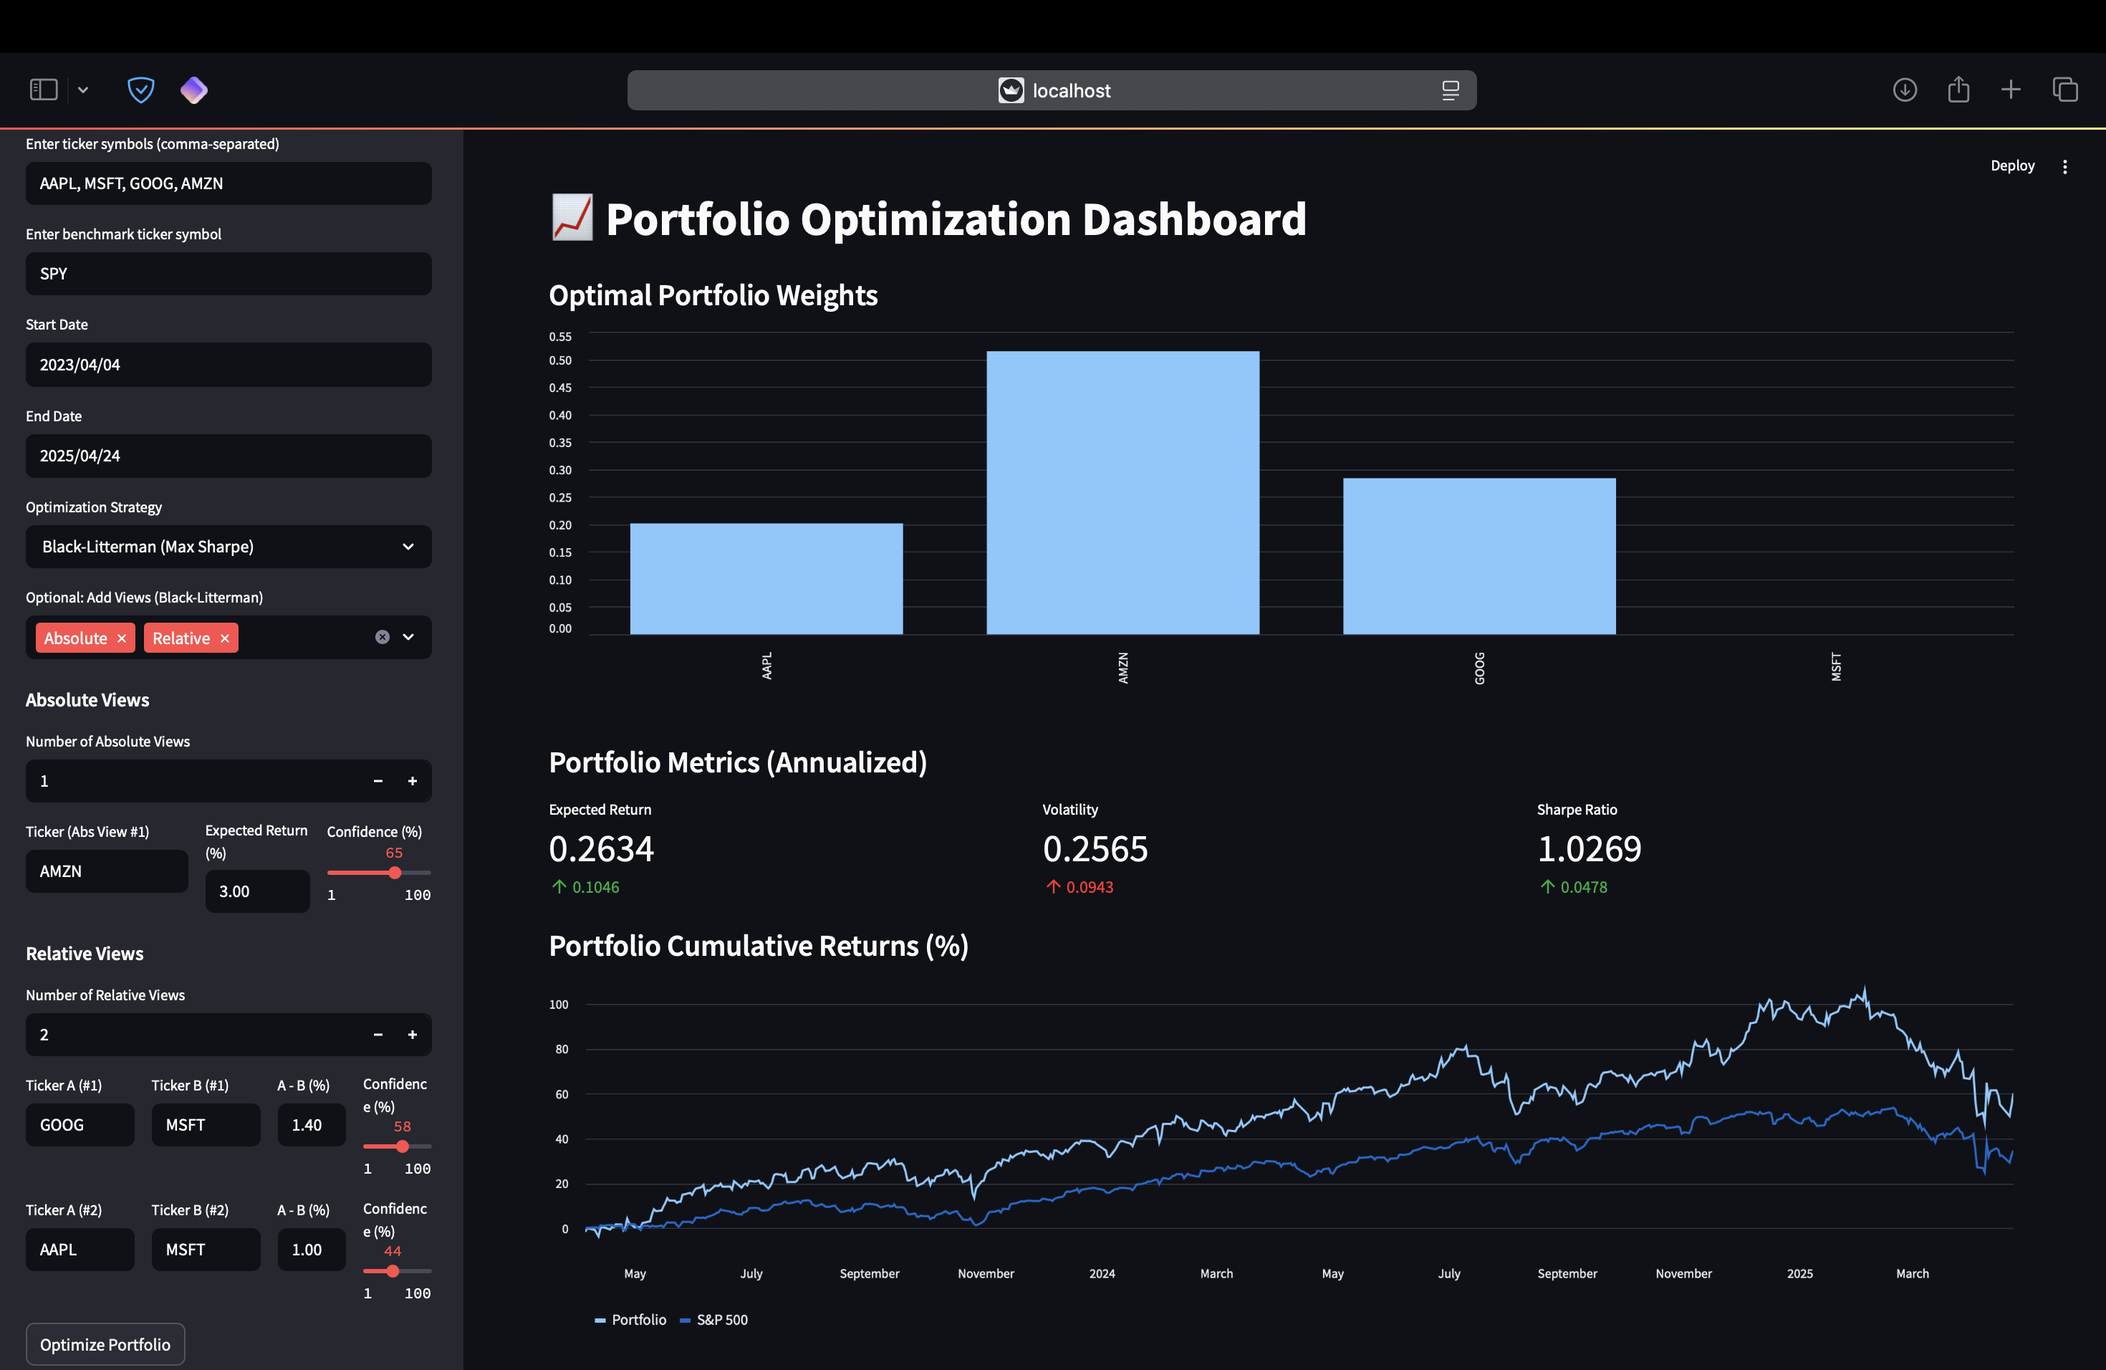
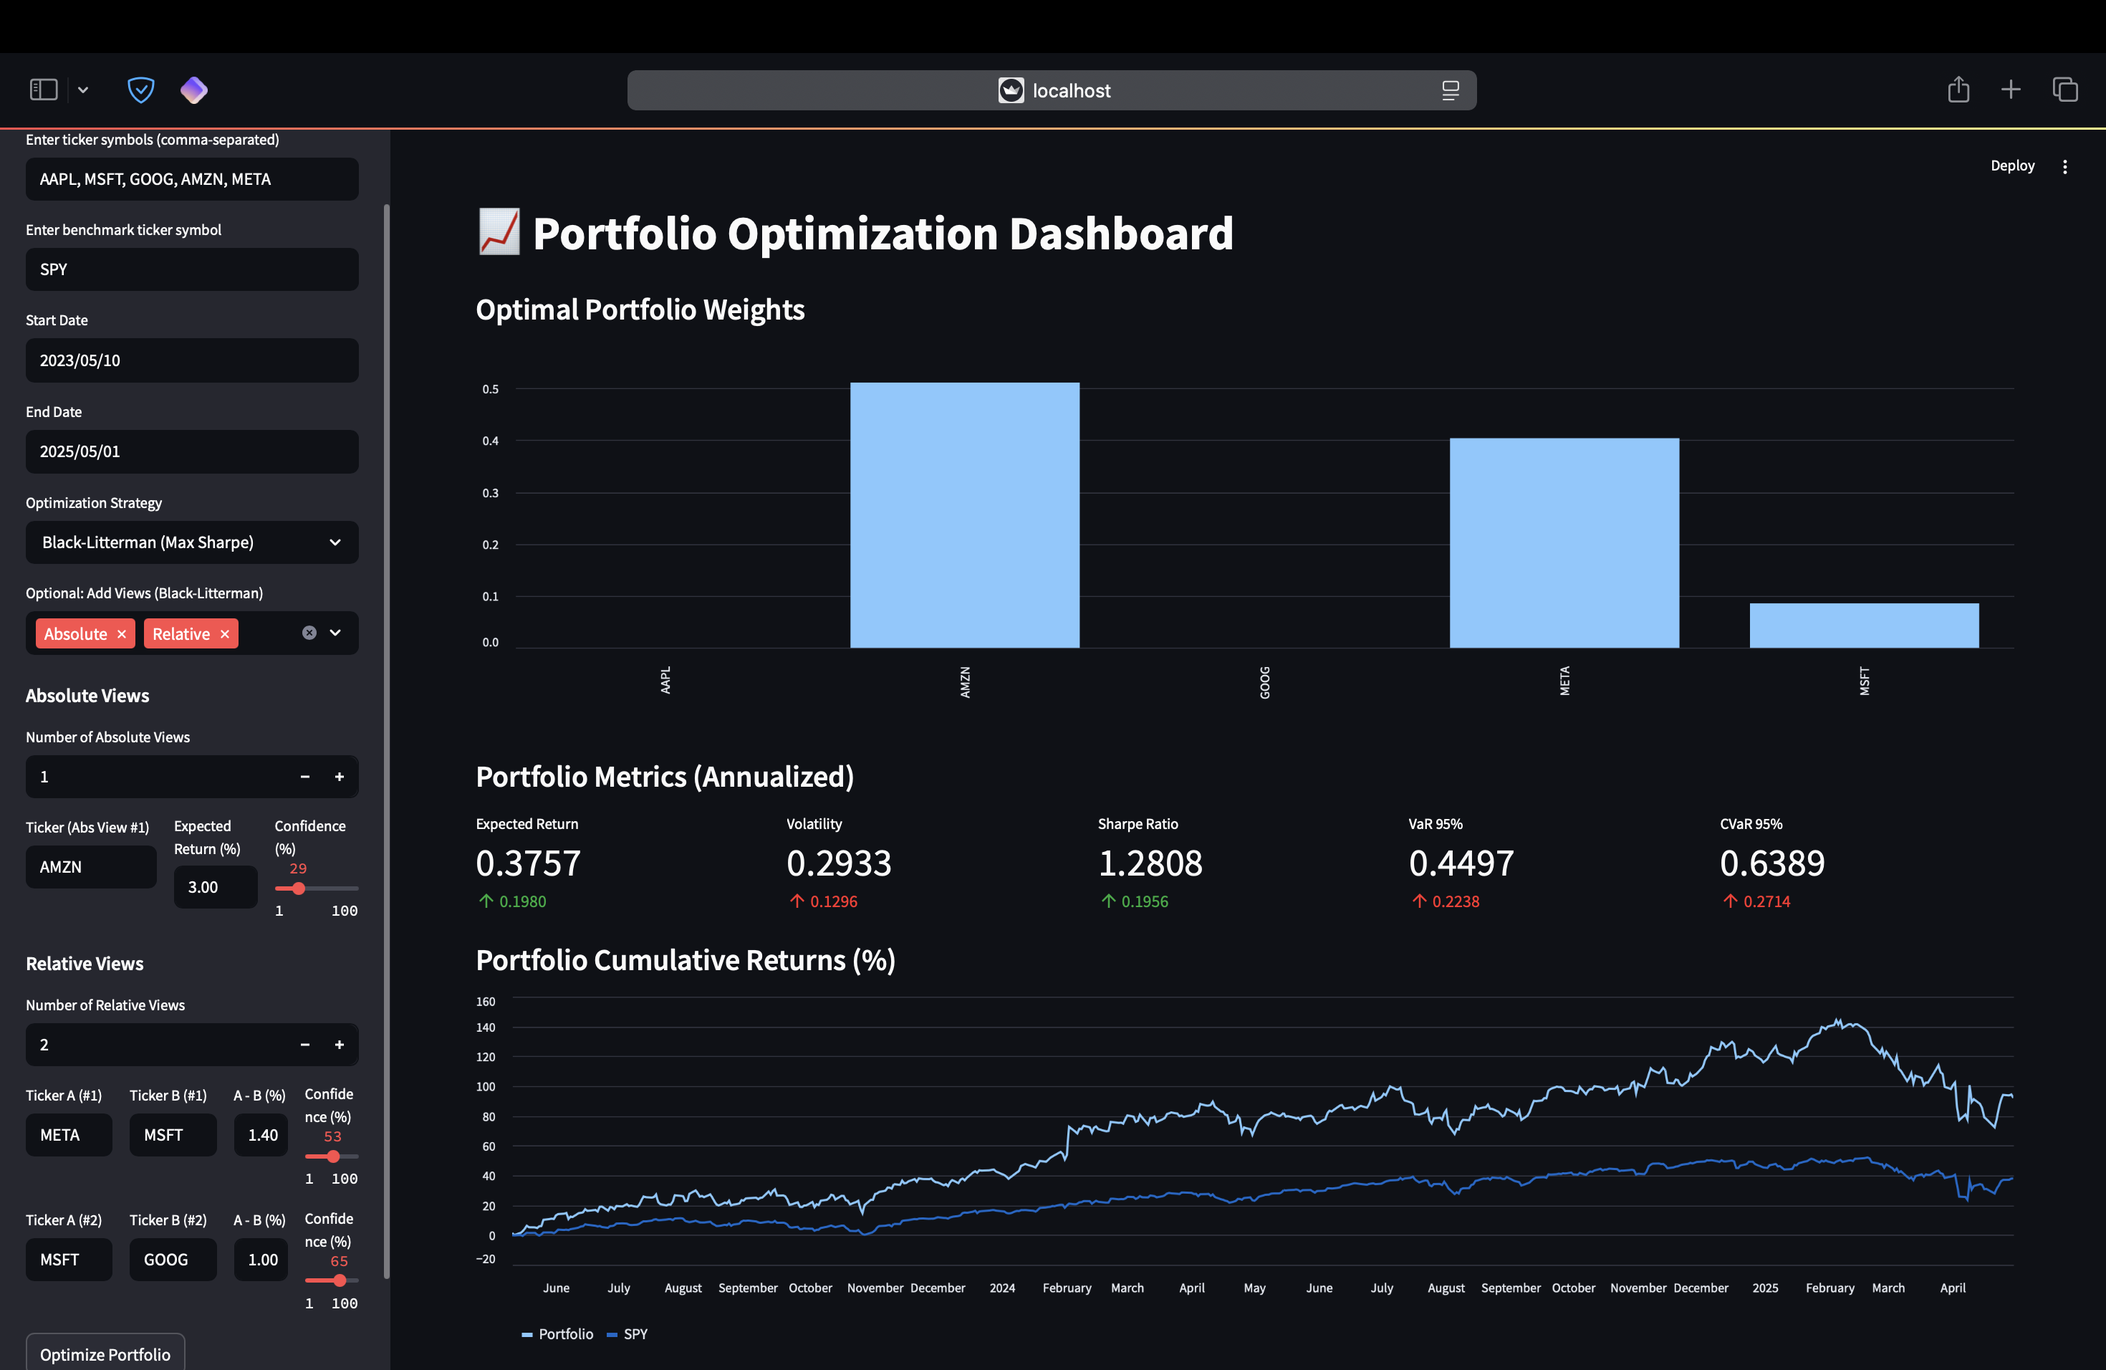
Add the updated version of all files
Mainly added the option of CVaR optimization strategy and two portfolio metrics: VaR and CVaR. Moreover, added a drawdown analysis (with line plot) and a correlation matrix heatmap.

diff --git a/strategy.py b/strategy.py
@@ -1,7 +1,8 @@
 import numpy as np
 import pandas as pd
 import yfinance as yf
-from scipy.optimize import minimize
+from scipy.optimize import minimize, linprog
+import seaborn as sns
 
 def load_data(tickers, start, end):
     try:
@@ -12,25 +13,25 @@ def load_data(tickers, start, end):
         print(f"Error loading data: {e}")
         return None
 
-def optimize_portfolio(data, strategy, benchmark, views=None):
+def optimize_portfolio(data, strategy, benchmark, views=None, alpha=0.95):
     returns = data.pct_change().dropna()
     mean_returns = returns.mean()
     cov_matrix = returns.cov()
-    num_assets = len(mean_returns)
+    T, N = returns.shape
 
     benchmark_returns = benchmark.pct_change().dropna()
     benchmark_mean = benchmark_returns.mean()
     benchmark_var = benchmark_returns.var()
 
     if strategy == "Equal Weight":
-        weights = np.array(num_assets * [1/num_assets])
+        weights = np.array(N * [1/N])
     elif strategy == "Minimum Variance":
         def portfolio_std(weights):
             return np.sqrt(np.dot(weights.T, np.dot(cov_matrix, weights)))
 
         constraints = ({'type': 'eq', 'fun': lambda x: np.sum(x) - 1})
-        bounds = tuple((0, 1) for _ in range(num_assets))
-        initial_guess = num_assets * [1/num_assets]
+        bounds = tuple((0, 1) for _ in range(N))
+        initial_guess = N * [1/N]
 
         result = minimize(portfolio_std, initial_guess, method='SLSQP', bounds=bounds, constraints=constraints)
         weights = result.x
@@ -42,13 +43,13 @@ def optimize_portfolio(data, strategy, benchmark, views=None):
             return -1 * (port_return - daily_rf)/port_std
 
         constraints = ({'type': 'eq', 'fun': lambda x: np.sum(x) - 1})
-        bounds = tuple((0, 1) for _ in range(num_assets))
-        initial_guess = num_assets * [1/num_assets]
+        bounds = tuple((0, 1) for _ in range(N))
+        initial_guess = N * [1/N]
 
         result = minimize(neg_sharpe_ratio, initial_guess, method='SLSQP', bounds=bounds, constraints=constraints)
         weights = result.x
     elif strategy == "Black-Litterman (Max Sharpe)":
-        def black_litterman_expected_returns(tau, cov_matrix, P, Q, PI):
+        def black_litterman_expected_returns(tau, cov_matrix, confidences, P, Q, PI):
             omega = np.zeros((len(Q), len(Q)))
             for i, conf in enumerate(confidences):
                 epsilon = 1e-8  # Small value to prevent division errors when confidence is 100
@@ -71,7 +72,7 @@ def optimize_portfolio(data, strategy, benchmark, views=None):
                 if view[0] == "absolute":
                     _, ticker, expected_ret, conf = view
                     if ticker in data.columns:
-                        row = [0] * num_assets
+                        row = [0] * N
                         idx = data.columns.get_loc(ticker)
                         row[idx] = 1
                         P.append(row)
@@ -80,7 +81,7 @@ def optimize_portfolio(data, strategy, benchmark, views=None):
                 elif view[0] == "relative":
                     _, ticker_a, ticker_b, expected_diff, conf = view
                     if ticker_a in data.columns and ticker_b in data.columns:
-                        row = [0] * num_assets
+                        row = [0] * N
                         idx_a = data.columns.get_loc(ticker_a)
                         idx_b = data.columns.get_loc(ticker_b)
                         row[idx_a] = 1
@@ -90,7 +91,7 @@ def optimize_portfolio(data, strategy, benchmark, views=None):
                         confidences.append(conf)
             P = np.array(P)
             Q = np.array(Q)
-            bl_returns = black_litterman_expected_returns(tau, cov_matrix, P, Q, PI)
+            bl_returns = black_litterman_expected_returns(tau, cov_matrix, confidences, P, Q, PI)
         else:
             bl_returns = PI  
 
@@ -102,21 +103,63 @@ def optimize_portfolio(data, strategy, benchmark, views=None):
             return -(np.dot(weights, bl_returns - daily_rf) / portfolio_std(weights))
 
         constraints = ({'type': 'eq', 'fun': lambda x: np.sum(x) - 1})
-        bounds = tuple((0, 1) for _ in range(num_assets))
+        bounds = tuple((0, 1) for _ in range(N))
         initial_guess = market_weights
 
         result = minimize(neg_sharpe, initial_guess, method='SLSQP', bounds=bounds, constraints=constraints)
         weights = result.x
+    elif strategy=="CVaR":
+        losses = -returns.values 
+        
+        # Variables: [weights (N), VaR (1), auxiliary (T)]
+        # Objective: Minimize CVaR = VaR + (1/(1-alpha)) * mean(auxiliary)
+        vars = N + 1 + T
+        c = np.concatenate([np.zeros(N), [1], np.ones(T) / ((1 - alpha) * T)])
+
+        # Equality Constraint: sum(weights) = 1
+        A_eq = np.zeros((1,vars))
+        A_eq[0:, :N] = 1
+        b_eq = np.array([1])
+        
+        # Inequality Constraints:
+        # 1. auxiliary >= 0
+        A_ub1 = np.zeros((T, vars))  
+        A_ub1[:, N+1:] = -np.eye(T)
+        b_ub1 = np.zeros(T)
+        # 2. auxiliary >= losses - VaR        
+        A_ub2 = np.zeros((T, vars))  
+        A_ub2[:, :N] = losses
+        A_ub2[:, N] = -1 
+        A_ub2[:, N+1:] = -np.eye(T)
+        b_ub2 = np.zeros(T)
+        
+        A_ub = np.vstack([A_ub1, A_ub2])
+        b_ub = np.hstack([b_ub1, b_ub2])
+        
+        # Bounds: weights >= 0, VaR unrestricted, auxiliary >= 0
+        bounds = [(0, None)] * N + [(None, None)] + [(0, None)] * T
+        
+        result = linprog(c, A_ub=A_ub, b_ub=b_ub, A_eq=A_eq, b_eq=b_eq, bounds=bounds, method='highs')
+        weights = result.x[:N]        
     else:
         raise ValueError("Invalid strategy")
 
     portfolio = pd.Series(weights, index=data.columns)
+    portfolio_returns = returns.dot(weights)  
+    sorted_returns = np.sort(portfolio_returns)
+    var_hist = -np.percentile(sorted_returns, 100 * (1 - alpha))
+    cvar_hist = -np.mean(sorted_returns[sorted_returns<=-var_hist])
+    sorted_returns_bench = np.sort(benchmark_returns)
+    var_hist_bench = -np.percentile(sorted_returns_bench, 100 * (1 - alpha))
+    cvar_hist_bench = -np.mean(sorted_returns_bench[sorted_returns_bench<=-var_hist_bench])
     stats = {
         "Expected Return": [np.dot(weights, mean_returns) * 252, np.mean(benchmark_returns) * 252],
         "Volatility": [np.sqrt(np.dot(weights.T, np.dot(cov_matrix, weights)) * 252) , 
                        np.std(benchmark_returns.to_numpy())* np.sqrt(252)],
         "Sharpe Ratio": [(np.dot(weights, mean_returns) * 252) / np.sqrt(np.dot(weights.T, np.dot(cov_matrix, weights)) * 252),
-                          np.mean(benchmark_returns) * 252/(np.std(benchmark_returns.to_numpy()) * np.sqrt(252))]
+                          np.mean(benchmark_returns) * 252/(np.std(benchmark_returns.to_numpy()) * np.sqrt(252))],
+        f"VaR {alpha * 100:.0f}%" : [var_hist * np.sqrt(252), var_hist_bench * np.sqrt(252)],
+        f"CVaR {alpha * 100:.0f}%" : [cvar_hist * np.sqrt(252), cvar_hist_bench * np.sqrt(252)]
     }
 
     return portfolio, stats
@@ -124,14 +167,44 @@ def optimize_portfolio(data, strategy, benchmark, views=None):
 
 def plot_historic_perf(data, opt_weights, benchmark):    
     returns = data.pct_change().dropna()
-    portfolio_ret = (returns *  opt_weights).sum(1)
-    portfolio_perf = ((1 + portfolio_ret).cumprod() - 1) * 100
-
+    portfolio_returns = (returns *  opt_weights).sum(1)
+    portfolio_perf = ((1 + portfolio_returns).cumprod() - 1) * 100
     benchmark_returns = benchmark.pct_change().dropna()
     benchmark_perf = ((1 + benchmark_returns).cumprod() - 1) * 100
 
     historic_data = pd.concat([portfolio_perf, benchmark_perf], axis = 1)
-    historic_data.columns = ['Portfolio', 'S&P 500']
+    historic_data.columns = ['Portfolio', list(benchmark.columns)[0]]
+    return historic_data    
+
+
+def plot_drawdowns(data, opt_weights, benchmark):
+    returns = data.pct_change().dropna()
+    portfolio_returns = (returns *  opt_weights).sum(1)
+    benchmark_returns = benchmark.pct_change().dropna()
+
+    def calculate_drawdowns(returns):
+        wealth_index = (1 + returns).cumprod()
+        previous_peaks = wealth_index.cummax()
+        drawdowns = (wealth_index - previous_peaks) / previous_peaks
+        return drawdowns
     
-    return historic_data
+    portfolio_dd = calculate_drawdowns(portfolio_returns)
+    benchmark_dd = calculate_drawdowns(benchmark_returns)
+    drawdown_data = pd.concat([portfolio_dd, benchmark_dd], axis=1)
+    drawdown_data.columns = ['Portfolio', list(benchmark.columns)[0]]
     
+    stats = {
+        'Portfolio Max Drawdown': drawdown_data['Portfolio'].min() * 100,
+        'Benchmark Max Drawdown': drawdown_data[list(benchmark.columns)[0]].min() * 100,
+        'Maximum Drawdown duration (days)': (drawdown_data['Portfolio'] == 0).astype(int).groupby(
+        (drawdown_data['Portfolio'] == 0).astype(int).cumsum()).cumcount().max()
+    }
+    return drawdown_data, stats
+
+def plot_correlation_heatmap(data):
+    returns = data.pct_change().dropna()
+    corr_matrix = returns.corr()
+    cm = sns.dark_palette("blue", as_cmap=True)
+    corr_matrix = corr_matrix.style.format(precision = 3).background_gradient(cmap=cm)
+    return corr_matrix
+

diff --git a/stream.py b/stream.py
@@ -5,47 +5,53 @@ st.set_page_config(layout="wide")
 st.title("📈 Portfolio Optimization Dashboard")
 
 # Sidebar Inputs
-assets = st.sidebar.text_input("Enter ticker symbols (comma-separated)", "AAPL, MSFT, GOOG, AMZN")
+assets = st.sidebar.text_input("Enter ticker symbols (comma-separated)", "AAPL, MSFT, GOOG, AMZN, META")    
 bench = st.sidebar.text_input("Enter benchmark ticker symbol", "SPY")
 start_date = st.sidebar.date_input("Start Date")
 end_date = st.sidebar.date_input("End Date")
-strategy = st.sidebar.selectbox("Optimization Strategy", ["Minimum Variance", "Maximum Sharpe", "Equal Weight", "Black-Litterman (Max Sharpe)"])
-view_types = st.sidebar.multiselect("Optional: Add Views (Black-Litterman)", ["Absolute", "Relative"])
+strategy = st.sidebar.selectbox("Optimization Strategy", ["Minimum Variance", "Maximum Sharpe", "Equal Weight", 
+                                                          "Black-Litterman (Max Sharpe)", "CVaR"])
+alpha = 0.95
+if strategy == "CVaR":
+    alpha = st.sidebar.slider("CVaR Confidence Level", 0.9,0.99,0.95)
 views = []
-view_idx = 0
+if strategy == "Black-Litterman (Max Sharpe)":
+    view_types = st.sidebar.multiselect("Optional: Add Views (Black-Litterman)", ["Absolute", "Relative"])
+    view_idx = 0
+    if "Absolute" in view_types:
+        st.sidebar.markdown("### Absolute Views")
+        num_abs = st.sidebar.number_input("Number of Absolute Views", 0, 10, 0, key="num_abs")
+        for i in range(num_abs):
+            col1, col2, col3 = st.sidebar.columns([1.5, 1, 1])
+            ticker = col1.text_input(f"Ticker (Abs View #{i+1})")
+            expected_return = col2.number_input("Expected Return (%)", key=f"abs_ret{i}", step = 0.5)
+            confidence = col3.slider("Confidence (%)", 1, 100, 50, key=f"abs_conf{i}")
+            if ticker:
+                views.append(("absolute", ticker.upper(), expected_return / 100, confidence / 100))
+    if "Relative" in view_types:
+        st.sidebar.markdown("### Relative Views")
+        num_rel = st.sidebar.number_input("Number of Relative Views", 0, 10, 0, key="num_rel")
+        for i in range(num_rel):
+            col1, col2, col3, col4 = st.sidebar.columns([1.5, 1.5, 1, 1])
+            ticker1 = col1.text_input(f"Ticker A (#{i+1})")
+            ticker2 = col2.text_input(f"Ticker B (#{i+1})")
+            expected_diff = col3.number_input("A - B (%)", key=f"rel_diff{i}", step = 0.5)
+            confidence = col4.slider("Confidence (%)", 1, 100, 50, key=f"rel_conf{i}")
+            if ticker1 and ticker2:
+                views.append(("relative", ticker1.upper(), ticker2.upper(), expected_diff / 100, confidence / 100))
 
-if "Absolute" in view_types:
-    st.sidebar.markdown("### Absolute Views")
-    num_abs = st.sidebar.number_input("Number of Absolute Views", 0, 10, 0, key="num_abs")
-    for i in range(num_abs):
-        col1, col2, col3 = st.sidebar.columns([1.5, 1, 1])
-        ticker = col1.text_input(f"Ticker (Abs View #{i+1})")
-        expected_return = col2.number_input("Expected Return (%)", key=f"abs_ret{i}", step = 0.5)
-        confidence = col3.slider("Confidence (%)", 1, 100, 50, key=f"abs_conf{i}")
-        if ticker:
-            views.append(("absolute", ticker.upper(), expected_return / 100, confidence / 100))
 
-if "Relative" in view_types:
-    st.sidebar.markdown("### Relative Views")
-    num_rel = st.sidebar.number_input("Number of Relative Views", 0, 10, 0, key="num_rel")
-    for i in range(num_rel):
-        col1, col2, col3, col4 = st.sidebar.columns([1.5, 1.5, 1, 1])
-        ticker1 = col1.text_input(f"Ticker A (#{i+1})")
-        ticker2 = col2.text_input(f"Ticker B (#{i+1})")
-        expected_diff = col3.number_input("A - B (%)", key=f"rel_diff{i}", step = 0.5)
-        confidence = col4.slider("Confidence (%)", 1, 100, 50, key=f"rel_conf{i}")
-        if ticker1 and ticker2:
-            views.append(("relative", ticker1.upper(), ticker2.upper(), expected_diff / 100, confidence / 100))
-
-
+@st.cache_data
+def load_data_cached(tickers, start, end):
+    return load_data(tickers, start, end)
 
 if st.sidebar.button("Optimize Portfolio"):
     tickers = [ticker.strip().upper() for ticker in assets.split(",")]
-    data = load_data(tickers, start_date, end_date)
-    benchmark = load_data(bench, start_date, end_date)
+    data = load_data_cached(tickers, start_date, end_date)
+    benchmark = load_data_cached(bench, start_date, end_date)
 
     if data is not None:
-        opt_weights, stats = optimize_portfolio(data, strategy, benchmark, views=views)
+        opt_weights, stats = optimize_portfolio(data, strategy, benchmark, views=views, alpha=alpha)
 
         st.subheader("Optimal Portfolio Weights")
         st.bar_chart(opt_weights)
@@ -54,22 +60,33 @@ if st.sidebar.button("Optimize Portfolio"):
         cols = st.columns(len(stats))
         for (k, v), col in zip(stats.items(), cols):
             with col:
-                if k == 'Volatility':
+                if k == 'Expected Return' or k == 'Sharpe Ratio':
                     st.metric(
                         label=k,
-                        value=f"{v[0]:,.4f}",
-                        delta=f"{v[0]-v[1]:,.4f}",
-                        delta_color='inverse'
+                        value=f"{v[0]:.4f}",
+                        delta=f"{v[0]-v[1]:.4f}"
                         )               
                 else:
                     st.metric(
                         label=k,
-                        value=f"{v[0]:,.4f}",
-                        delta=f"{v[0]-v[1]:,.4f}",
+                        value=f"{v[0]:.4f}",
+                        delta=f"{v[0]-v[1]:.4f}",
+                        delta_color='inverse'
                         ) 
                     
         st.subheader("Portfolio Cumulative Returns (%)")
         st.line_chart(plot_historic_perf(data, opt_weights, benchmark))
 
+        drawdown_data, stats = plot_drawdowns(data, opt_weights, benchmark)            
+        st.subheader("Drawdown Analysis (%)")
+        col1, col2 = st.columns(([3,1]))
+        with col1:
+            st.line_chart(drawdown_data * 100) 
+        with col2:
+            for (k, v) in stats.items():
+                st.metric(label=k, value=f"{v:.2f}" if k!="Maximum Drawdown duration (days)" else f"{v:.0f}")
+        
+        st.subheader("Asset Correlation Heatmap")
+        st.table(plot_correlation_heatmap(data))
     else:
         st.error("Failed to load data. Please check the ticker symbols and try again.")

diff --git a/README.md b/README.md
@@ -11,11 +11,13 @@ An **interactive dashboard** for portfolio optimization strategies — from clas
   - Maximum Sharpe Ratio
   - Equal Weight
   - **Black-Litterman** (with custom absolute & relative views + confidence levels)
+  - **CVaR** (Rockafellar and Ursayev (2001))
 
-- 🧠 Investor view inputs (for Black-Litterman):
+- 🧠 Investor view inputs (for Black-Litterman and CVaR):
   - Absolute views (e.g., "AAPL will return 10%")
   - Relative views (e.g., "AAPL will outperform MSFT by 3%")
-  - Adjustable confidence levels for each view
+  - Adjustable confidence levels for each view and for CVaR
+
 
 - 📆 Historical portfolio performance plot
 - 📎 Benchmark comparison (e.g., SPY)
@@ -36,7 +38,8 @@ streamlit run stream.py
 
 ## 💡 To-Do 
 
-- [ ] CVaR Optimization (Historical + Monte Carlo)
+- [ ] Factor Exposure
+- [ ] Risk contribution
 - [ ] Sector / ESG filtering
 
 
